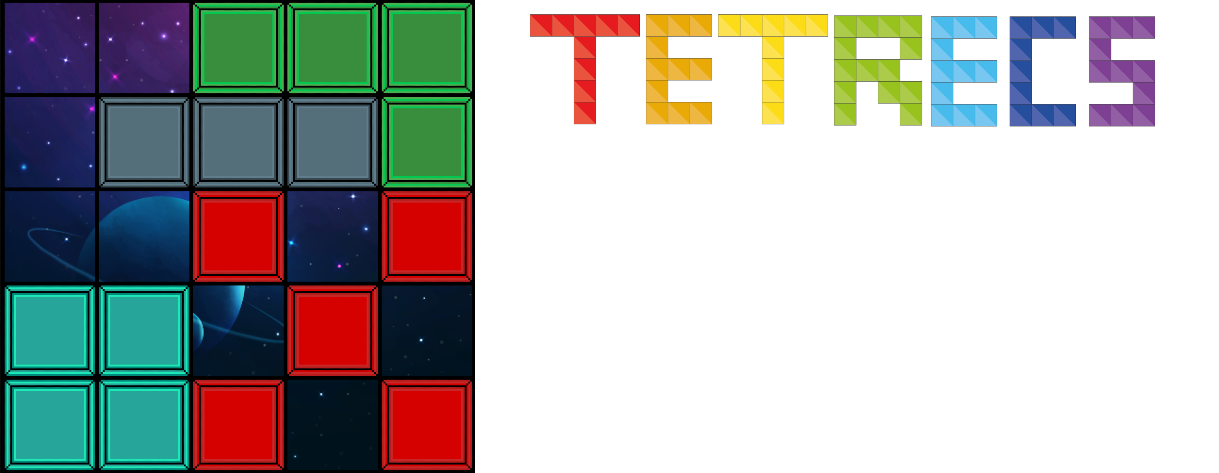
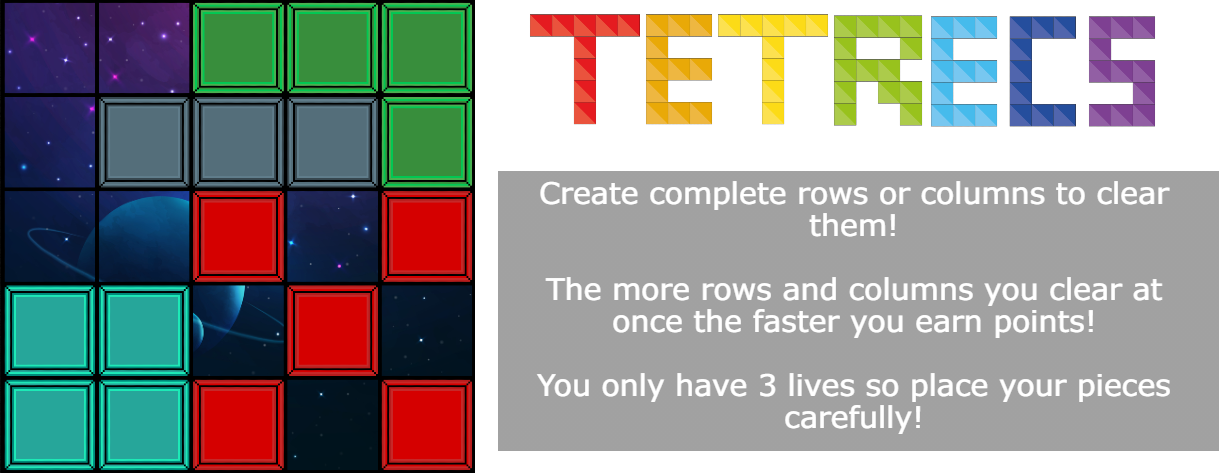
Mostly finished instruction screen

diff --git a/src/main/resources/style/Instructions.css b/src/main/resources/style/Instructions.css
@@ -4,3 +4,28 @@
     -fx-background-size: cover;
     -fx-background-color: transparent;
 }
+
+.key-icon {
+    -fx-font-weight: bold;
+    -fx-text-fill: black;
+    -fx-font-size: 25px;
+}
+
+.scroll-pane .viewport {
+    -fx-background-color: rgba(0, 0, 0, 0.377);
+}
+
+.scroll-pane {
+    -fx-background-color: transparent;
+}
+
+.action-name {
+    -fx-text-fill: white;
+    -fx-font-weight: bold;
+    -fx-font-size: 20px;
+}
+
+.action-description {
+    -fx-text-fill: white;
+    -fx-font-size: 18px;
+}

diff --git a/src/main/java/uk/ac/soton/comp1206/Components/instructions/KeyBindingDisplay.java b/src/main/java/uk/ac/soton/comp1206/Components/instructions/KeyBindingDisplay.java
@@ -1,24 +1,57 @@
 package uk.ac.soton.comp1206.Components.instructions;
 
+import javafx.geometry.Insets;
+import javafx.geometry.Pos;
+import javafx.scene.control.Label;
 import javafx.scene.control.ScrollPane;
 import javafx.scene.layout.GridPane;
 import javafx.scene.layout.HBox;
-import javafx.scene.layout.StackPane;
 import uk.ac.soton.comp1206.Event.KeyBinding;
+import uk.ac.soton.comp1206.Utility.Utility;
 
-public class KeyBindingDisplay extends StackPane {
+public class KeyBindingDisplay extends ScrollPane {
     private final KeyBinding[] actions = KeyBinding.values();
 
+    public KeyBindingDisplay() {
+        this.build();
+    }
+
     public void build() {
-        var scroll = new ScrollPane();
+        this.getStyleClass().add("key-binding-display");
 
         var actionGrid = new GridPane();
+        actionGrid.setHgap(10);
+        actionGrid.setVgap(10);
 
+        Utility.getImage("key.png");
         for (int i = 0; i < actions.length; i++) {
-            var action = actions[i];
+            KeyBinding action = actions[i];
 
+            var keySet = new HBox();
+            keySet.setSpacing(10);
+            keySet.setAlignment(Pos.CENTER);
+            keySet.setPadding(new Insets(10, 10, 10, 10));
+            action.getBindings().forEach(key -> {
+                keySet.getChildren().add(
+                    new KeyIcon(key)
+                );
+            });
+
+            actionGrid.add(keySet, 0, i);
+
+            var name = new Label(action.toString().replace("_", " "));
+            name.getStyleClass().add("action-name");
+            actionGrid.add(name, 1, i);
+
+            var description = new Label(action.getDescription());
+            description.setMaxWidth(200);
+            description.setWrapText(true);
+            description.getStyleClass().add("action-description");
+            actionGrid.add(description, 2, i);
             
         }
+
+        this.setContent(actionGrid);
     }
 
 

diff --git a/src/main/java/uk/ac/soton/comp1206/Components/instructions/KeyIcon.java b/src/main/java/uk/ac/soton/comp1206/Components/instructions/KeyIcon.java
@@ -1,0 +1,54 @@
+package uk.ac.soton.comp1206.Components.instructions;
+
+import javafx.scene.control.Label;
+import javafx.scene.image.ImageView;
+import javafx.scene.input.KeyCode;
+import javafx.scene.layout.StackPane;
+import uk.ac.soton.comp1206.Utility.Utility;
+
+public class KeyIcon extends StackPane {
+    private Label value;
+    private ImageView icon;
+
+    public KeyIcon(KeyCode key) {
+        this.value = new Label(this.getSymbol(key));
+        this.value.getStyleClass().add("key-icon");
+
+        this.icon = new ImageView(Utility.getImage("key.png"));
+        this.icon.setPreserveRatio(true);
+        this.icon.setFitHeight(75);
+
+        this.getChildren().addAll(this.icon, this.value);
+    } 
+
+    /**
+     * Gets the string version of a key
+     * Only really necessary for symbols where we use the unicode characters
+     * @param key The key being checked
+     * @return The string version of the key
+     */
+    private String getSymbol(KeyCode key) {
+        if (key.isArrowKey() || key.isWhitespaceKey() || key.equals(KeyCode.ESCAPE)) {
+            switch(key) {
+                case LEFT:
+                    return "\u2190";
+                case RIGHT:
+                    return "\u2192";
+                case UP:
+                    return "\u2191";
+                case DOWN:
+                    return "\u2193";
+                case ENTER:
+                    return "\u21B2";
+                case SPACE:
+                    return "\u2334";
+                case ESCAPE:
+                    return "ESC";
+                default:
+                    return "";
+            }
+        } 
+
+        return String.valueOf((char)key.getCode());
+    }
+}

diff --git a/src/main/java/uk/ac/soton/comp1206/Scenes/InstructionScene.java b/src/main/java/uk/ac/soton/comp1206/Scenes/InstructionScene.java
@@ -1,9 +1,10 @@
 package uk.ac.soton.comp1206.Scenes;
 
 import javafx.geometry.Insets;
+import javafx.geometry.Pos;
 import javafx.scene.image.ImageView;
 import javafx.scene.layout.VBox;
-import javafx.scene.text.TextFlow;
+import uk.ac.soton.comp1206.Components.instructions.KeyBindingDisplay;
 import uk.ac.soton.comp1206.Components.instructions.PieceDisplay;
 import uk.ac.soton.comp1206.Utility.Utility;
 import uk.ac.soton.comp1206.ui.GameWindow;
@@ -27,18 +28,26 @@ public class InstructionScene extends BaseScene {
         this.getStylesheets().add(Utility.getStyle("Instructions.css"));
         this.root.getStyleClass().add("instruction-bg");
 
-        this.window.setSize(1000, 700);
+        this.window.setSize(1075, 700);
+
+        var pieces = new PieceDisplay();
+        pieces.setPadding(new Insets(20, 20, 20, 20));
+
 
         this.root.setLeft(
-            new PieceDisplay()
+            pieces
         );
 
         var instructions = new ImageView(Utility.getImage("instructions.png"));
         instructions.setPreserveRatio(true);
         instructions.setFitWidth(this.window.getWidth()*0.85);
 
-        var body = new VBox(instructions);
+        var keyBindings = new KeyBindingDisplay();
+
+        var body = new VBox(instructions, keyBindings);
+        body.setAlignment(Pos.CENTER);
         body.setPadding(new Insets(20, 20, 20, 20));
+        body.setSpacing(25);
 
         this.root.setCenter(body);
 

diff --git a/src/main/java/uk/ac/soton/comp1206/Components/instructions/PieceDisplay.java b/src/main/java/uk/ac/soton/comp1206/Components/instructions/PieceDisplay.java
@@ -41,6 +41,7 @@ public class PieceDisplay extends VBox {
         Grid grid;
         for (int i = lowerBound; i < upperBound; i++) {
             grid = new Grid(3, 3, GridSize.MEDIUM);
+
             grid.lockSelected();
             grid.placePiece(this.pieces[i], 1, 1);
 
